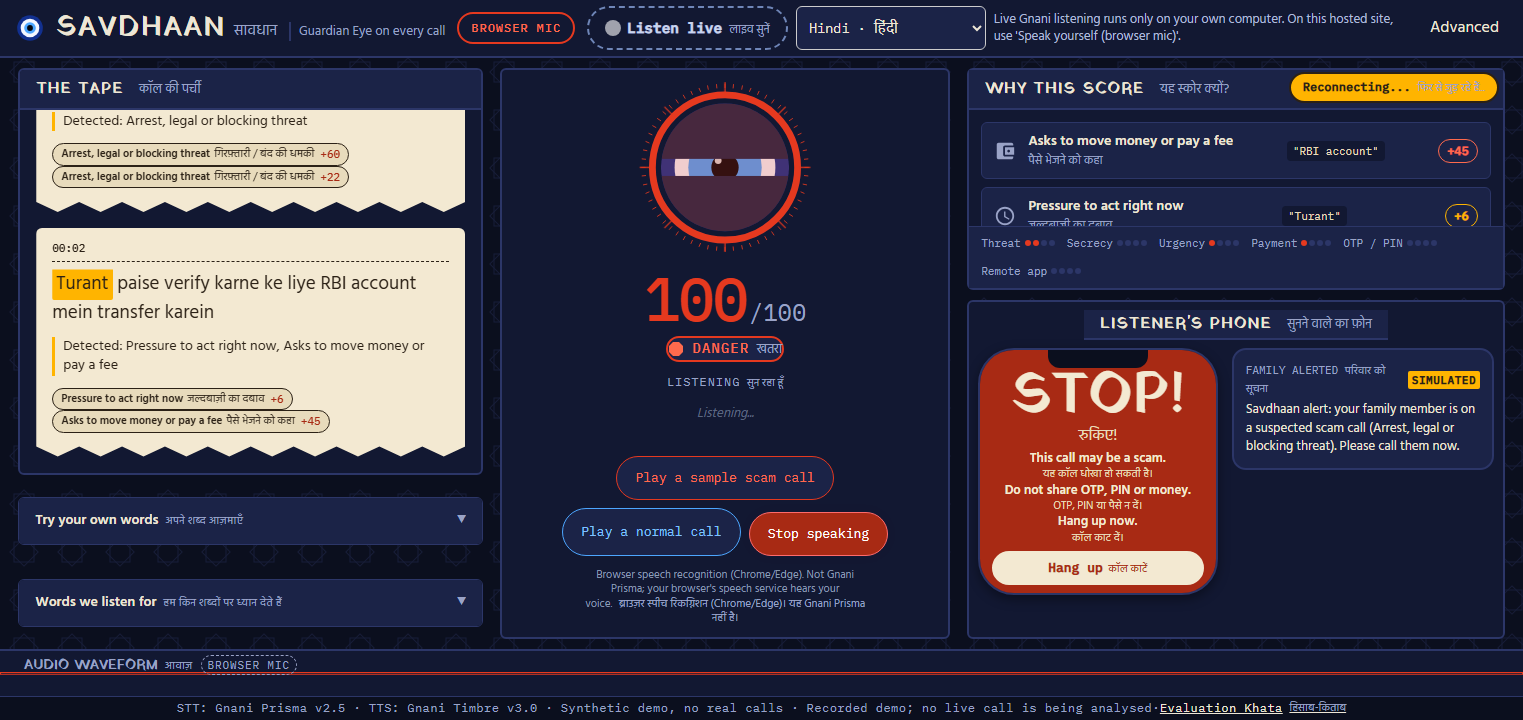
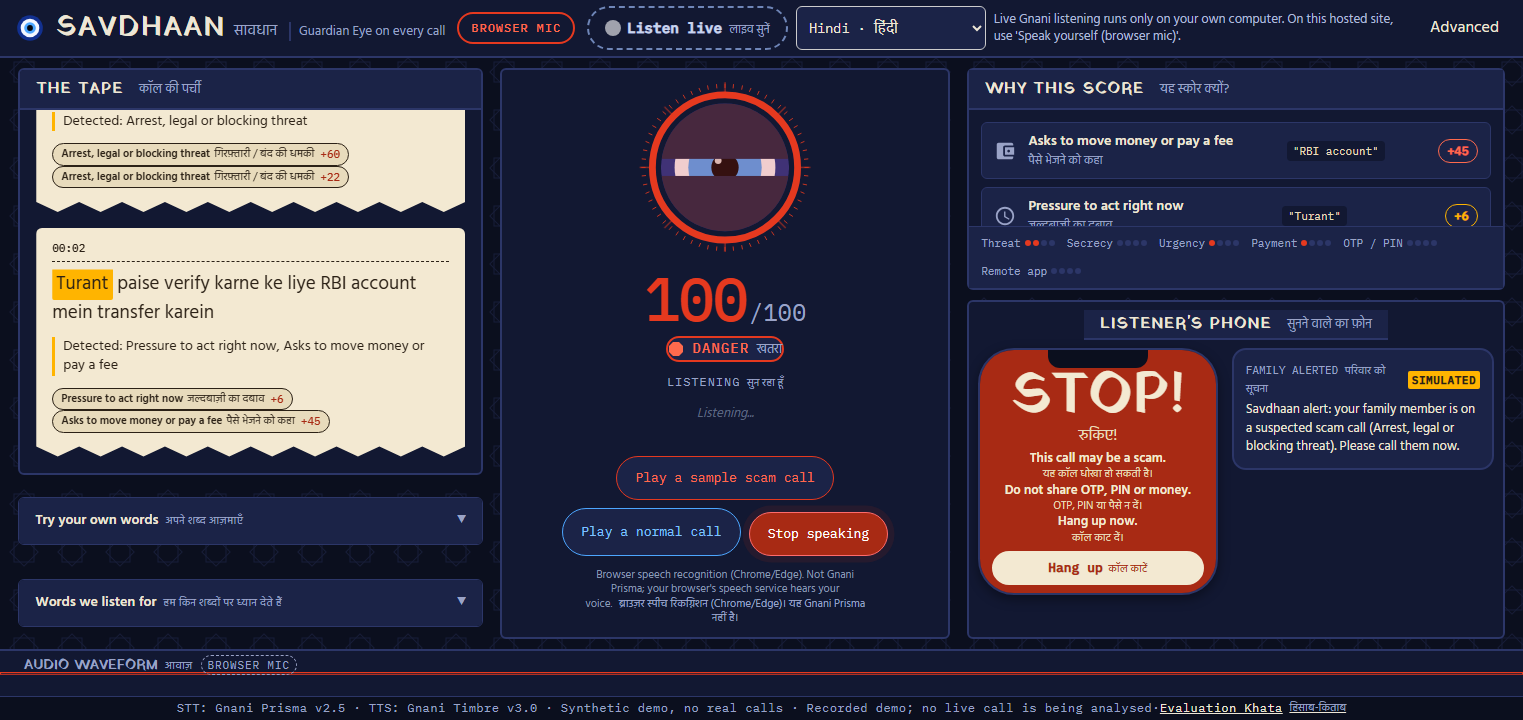
fix: disable ws reconnect chip on static hosted site

Changed region(s): [[0.8332, 0.0917, 0.9875, 0.1528]]

diff --git a/frontend/js/app.js b/frontend/js/app.js
@@ -71,7 +71,7 @@ export async function init() {
   const p = new URLSearchParams(window.location.search);
   if (p.get("dev") === "1") {
     playSample("/assets/sample_run.jsonl", dispatch, { speed: parseFloat(p.get("speed") || "1"), at: p.get("at") ? parseFloat(p.get("at")) : null });
-  } else {
+  } else if (!state.isStatic) {
     connect(null, dispatch, (st) => el.reconnect.classList.toggle("hidden", st !== "reconnecting"));
   }
 }

diff --git a/scripts/check_browser_live.py b/scripts/check_browser_live.py
@@ -103,7 +103,7 @@ def main():
 
         level = page.locator(".level-text").text_content()
         score = page.locator(".score-num").text_content()
-        print(f"Risk state: Level={level}, Score={score}")
+        print(f"Risk state: Level={ascii(level)}, Score={score}")
         assert int(score) >= 60, f"Expected score >= 60, got {score}"
 
         # Check phone card STOP warning
